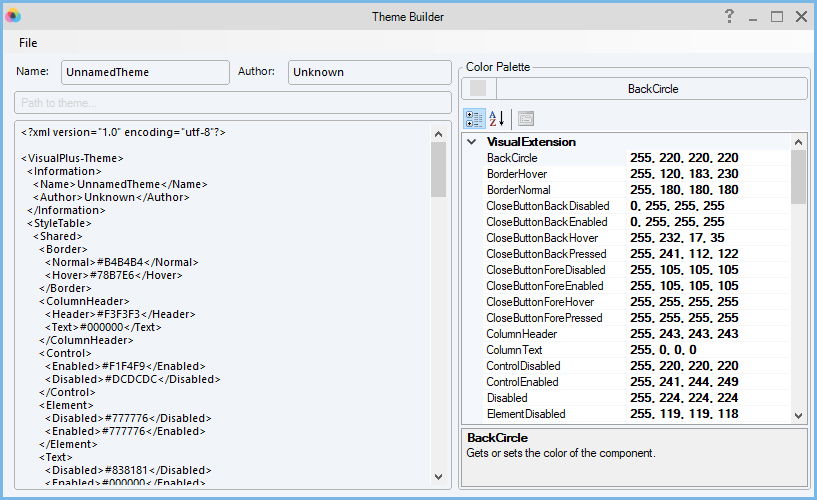
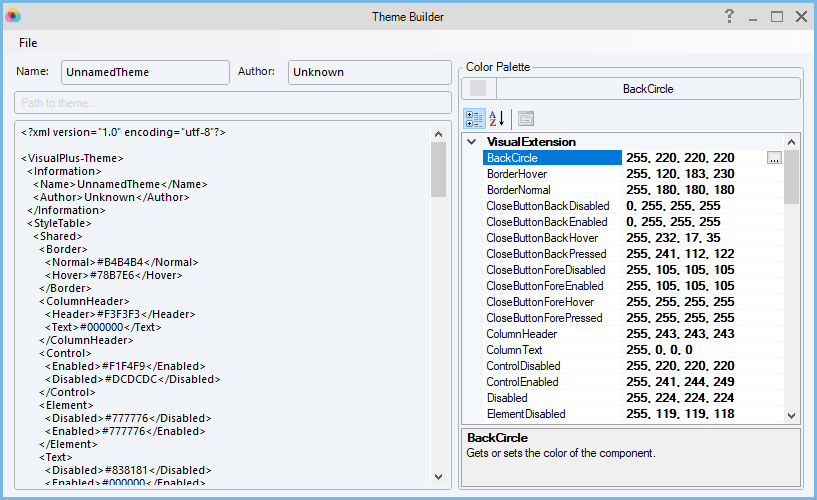
Minor adjustment

Changed region(s): [[0.5814, 0.15, 1.0, 0.99], [0.765, 0.15, 0.8262, 0.21]]

diff --git a/ThemeBuilder/Forms/Main.Designer.cs b/ThemeBuilder/Forms/Main.Designer.cs
@@ -381,7 +381,7 @@ namespace ThemeBuilder.Forms
             this.palettePropertyGrid.BackColor = System.Drawing.Color.FromArgb(((int)(((byte)(241)))), ((int)(((byte)(244)))), ((int)(((byte)(249)))));
             this.palettePropertyGrid.Location = new System.Drawing.Point(3, 46);
             this.palettePropertyGrid.Name = "palettePropertyGrid";
-            this.palettePropertyGrid.Size = new System.Drawing.Size(347, 381);
+            this.palettePropertyGrid.Size = new System.Drawing.Size(340, 381);
             this.palettePropertyGrid.TabIndex = 9;
             this.palettePropertyGrid.PropertyValueChanged += new System.Windows.Forms.PropertyValueChangedEventHandler(this.PalettePropertyGrid_PropertyValueChanged);
             this.palettePropertyGrid.SelectedGridItemChanged += new System.Windows.Forms.SelectedGridItemChangedEventHandler(this.PalettePropertyGrid_SelectedGridItemChanged);
@@ -467,7 +467,7 @@ namespace ThemeBuilder.Forms
             this.gpColorPalette.Padding = new System.Windows.Forms.Padding(5, 26, 5, 5);
             this.gpColorPalette.Separator = false;
             this.gpColorPalette.SeparatorColor = System.Drawing.Color.FromArgb(((int)(((byte)(241)))), ((int)(((byte)(244)))), ((int)(((byte)(249)))));
-            this.gpColorPalette.Size = new System.Drawing.Size(353, 430);
+            this.gpColorPalette.Size = new System.Drawing.Size(346, 430);
             this.gpColorPalette.TabIndex = 11;
             this.gpColorPalette.Text = "Color Palette";
             this.gpColorPalette.TextAlignment = System.Drawing.StringAlignment.Center;
@@ -522,10 +522,10 @@ namespace ThemeBuilder.Forms
             this.tbSelectedColor.PasswordChar = '\0';
             this.tbSelectedColor.ReadOnly = true;
             this.tbSelectedColor.ScrollBars = System.Windows.Forms.ScrollBars.None;
-            this.tbSelectedColor.Size = new System.Drawing.Size(347, 23);
+            this.tbSelectedColor.Size = new System.Drawing.Size(340, 23);
             this.tbSelectedColor.TabIndex = 22;
             this.tbSelectedColor.TextAlign = System.Windows.Forms.HorizontalAlignment.Center;
-            this.tbSelectedColor.TextBoxWidth = 305;
+            this.tbSelectedColor.TextBoxWidth = 295;
             this.tbSelectedColor.TextStyle.Disabled = System.Drawing.Color.FromArgb(((int)(((byte)(131)))), ((int)(((byte)(129)))), ((int)(((byte)(129)))));
             this.tbSelectedColor.TextStyle.Enabled = System.Drawing.Color.FromArgb(((int)(((byte)(0)))), ((int)(((byte)(0)))), ((int)(((byte)(0)))));
             this.tbSelectedColor.TextStyle.Hover = System.Drawing.Color.FromArgb(((int)(((byte)(0)))), ((int)(((byte)(0)))), ((int)(((byte)(0)))));
